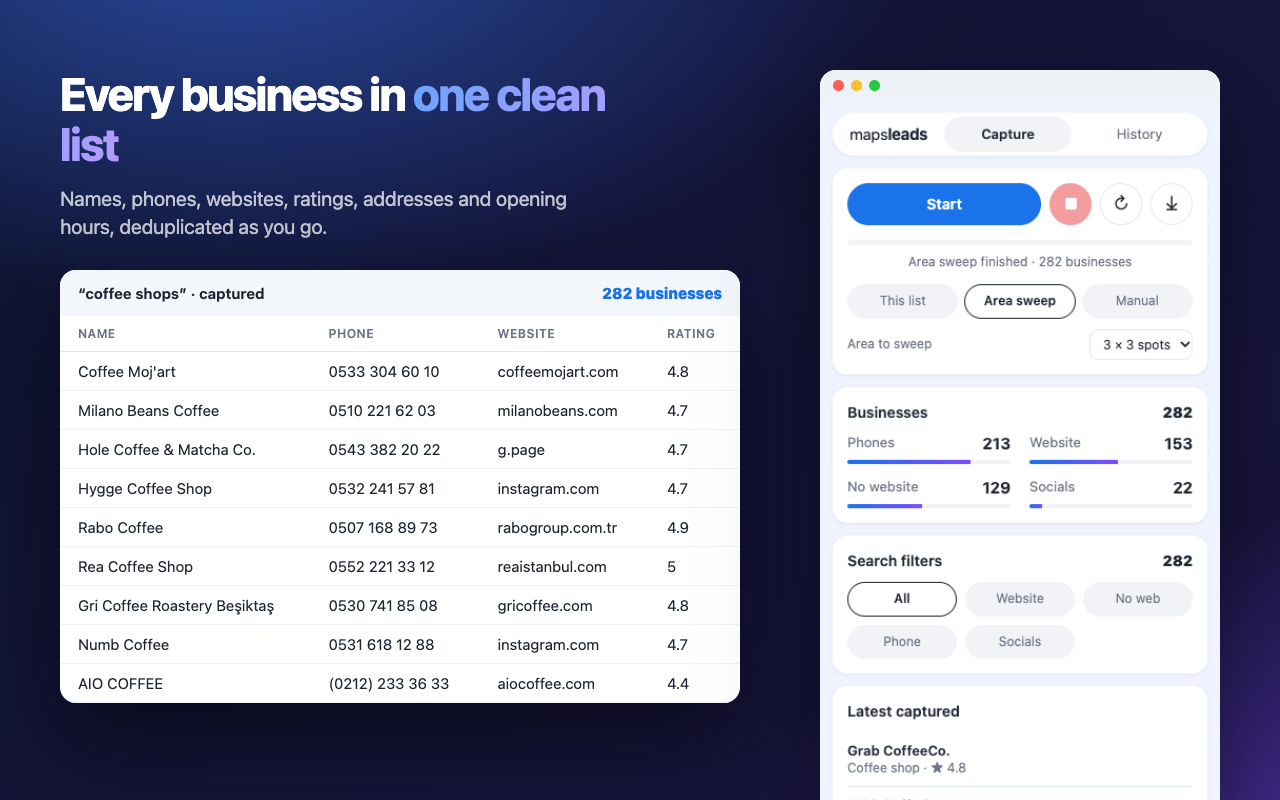
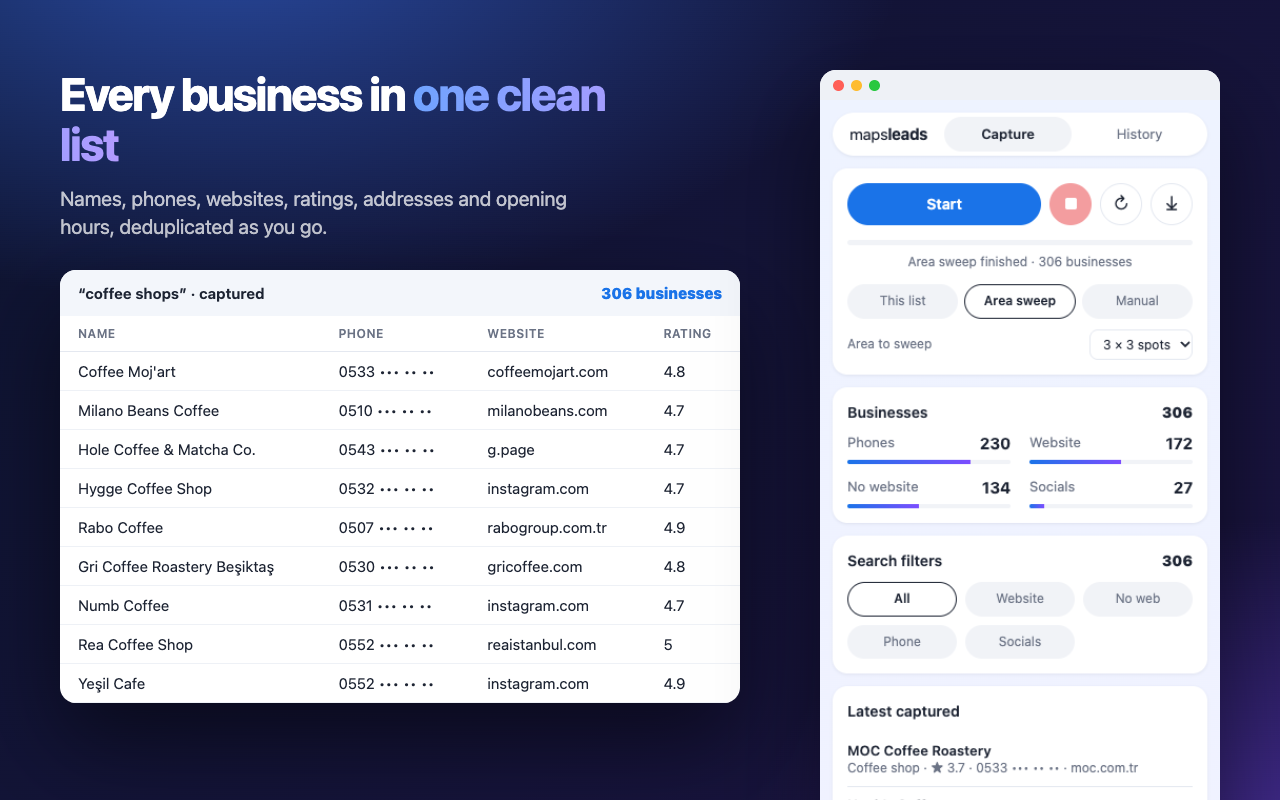
Mask phone numbers in promo assets and shorten the promo video
Recorded pages get an init script that masks every phone number in the
DOM ("0532 304 60 10" -> "0532 ••• •• ••"), and composed tables use the
same mask, so screenshots, the README GIF and the video are safe to share.

The video now plays the first spot and hop at 5x, flies through the
repetitive middle spots with a fast-forward badge, and slows down for the
finish: 44s -> 26s. The closing caption is computed from the real sweep.

diff --git a/README.md b/README.md
@@ -14,7 +14,7 @@
 
 ## Features
 
-- **Area sweep**: the map moves by itself in a spiral (3×3, 5×5 or 7×7 spots) and the results list is emptied at every spot. In the demo above, a 3×3 sweep collected 282 coffee shops in under 3 minutes.
+- **Area sweep**: the map moves by itself in a spiral (3×3, 5×5 or 7×7 spots) and the results list is emptied at every spot. In the demo above, a 3×3 sweep collected 306 coffee shops in under 4 minutes (phone numbers are masked in the demo).
 - **This list**: scrolls the current results list to its end, then stops.
 - **Manual**: only records what you browse.
 - Live counts for phones, websites, businesses without a website and social profiles.
